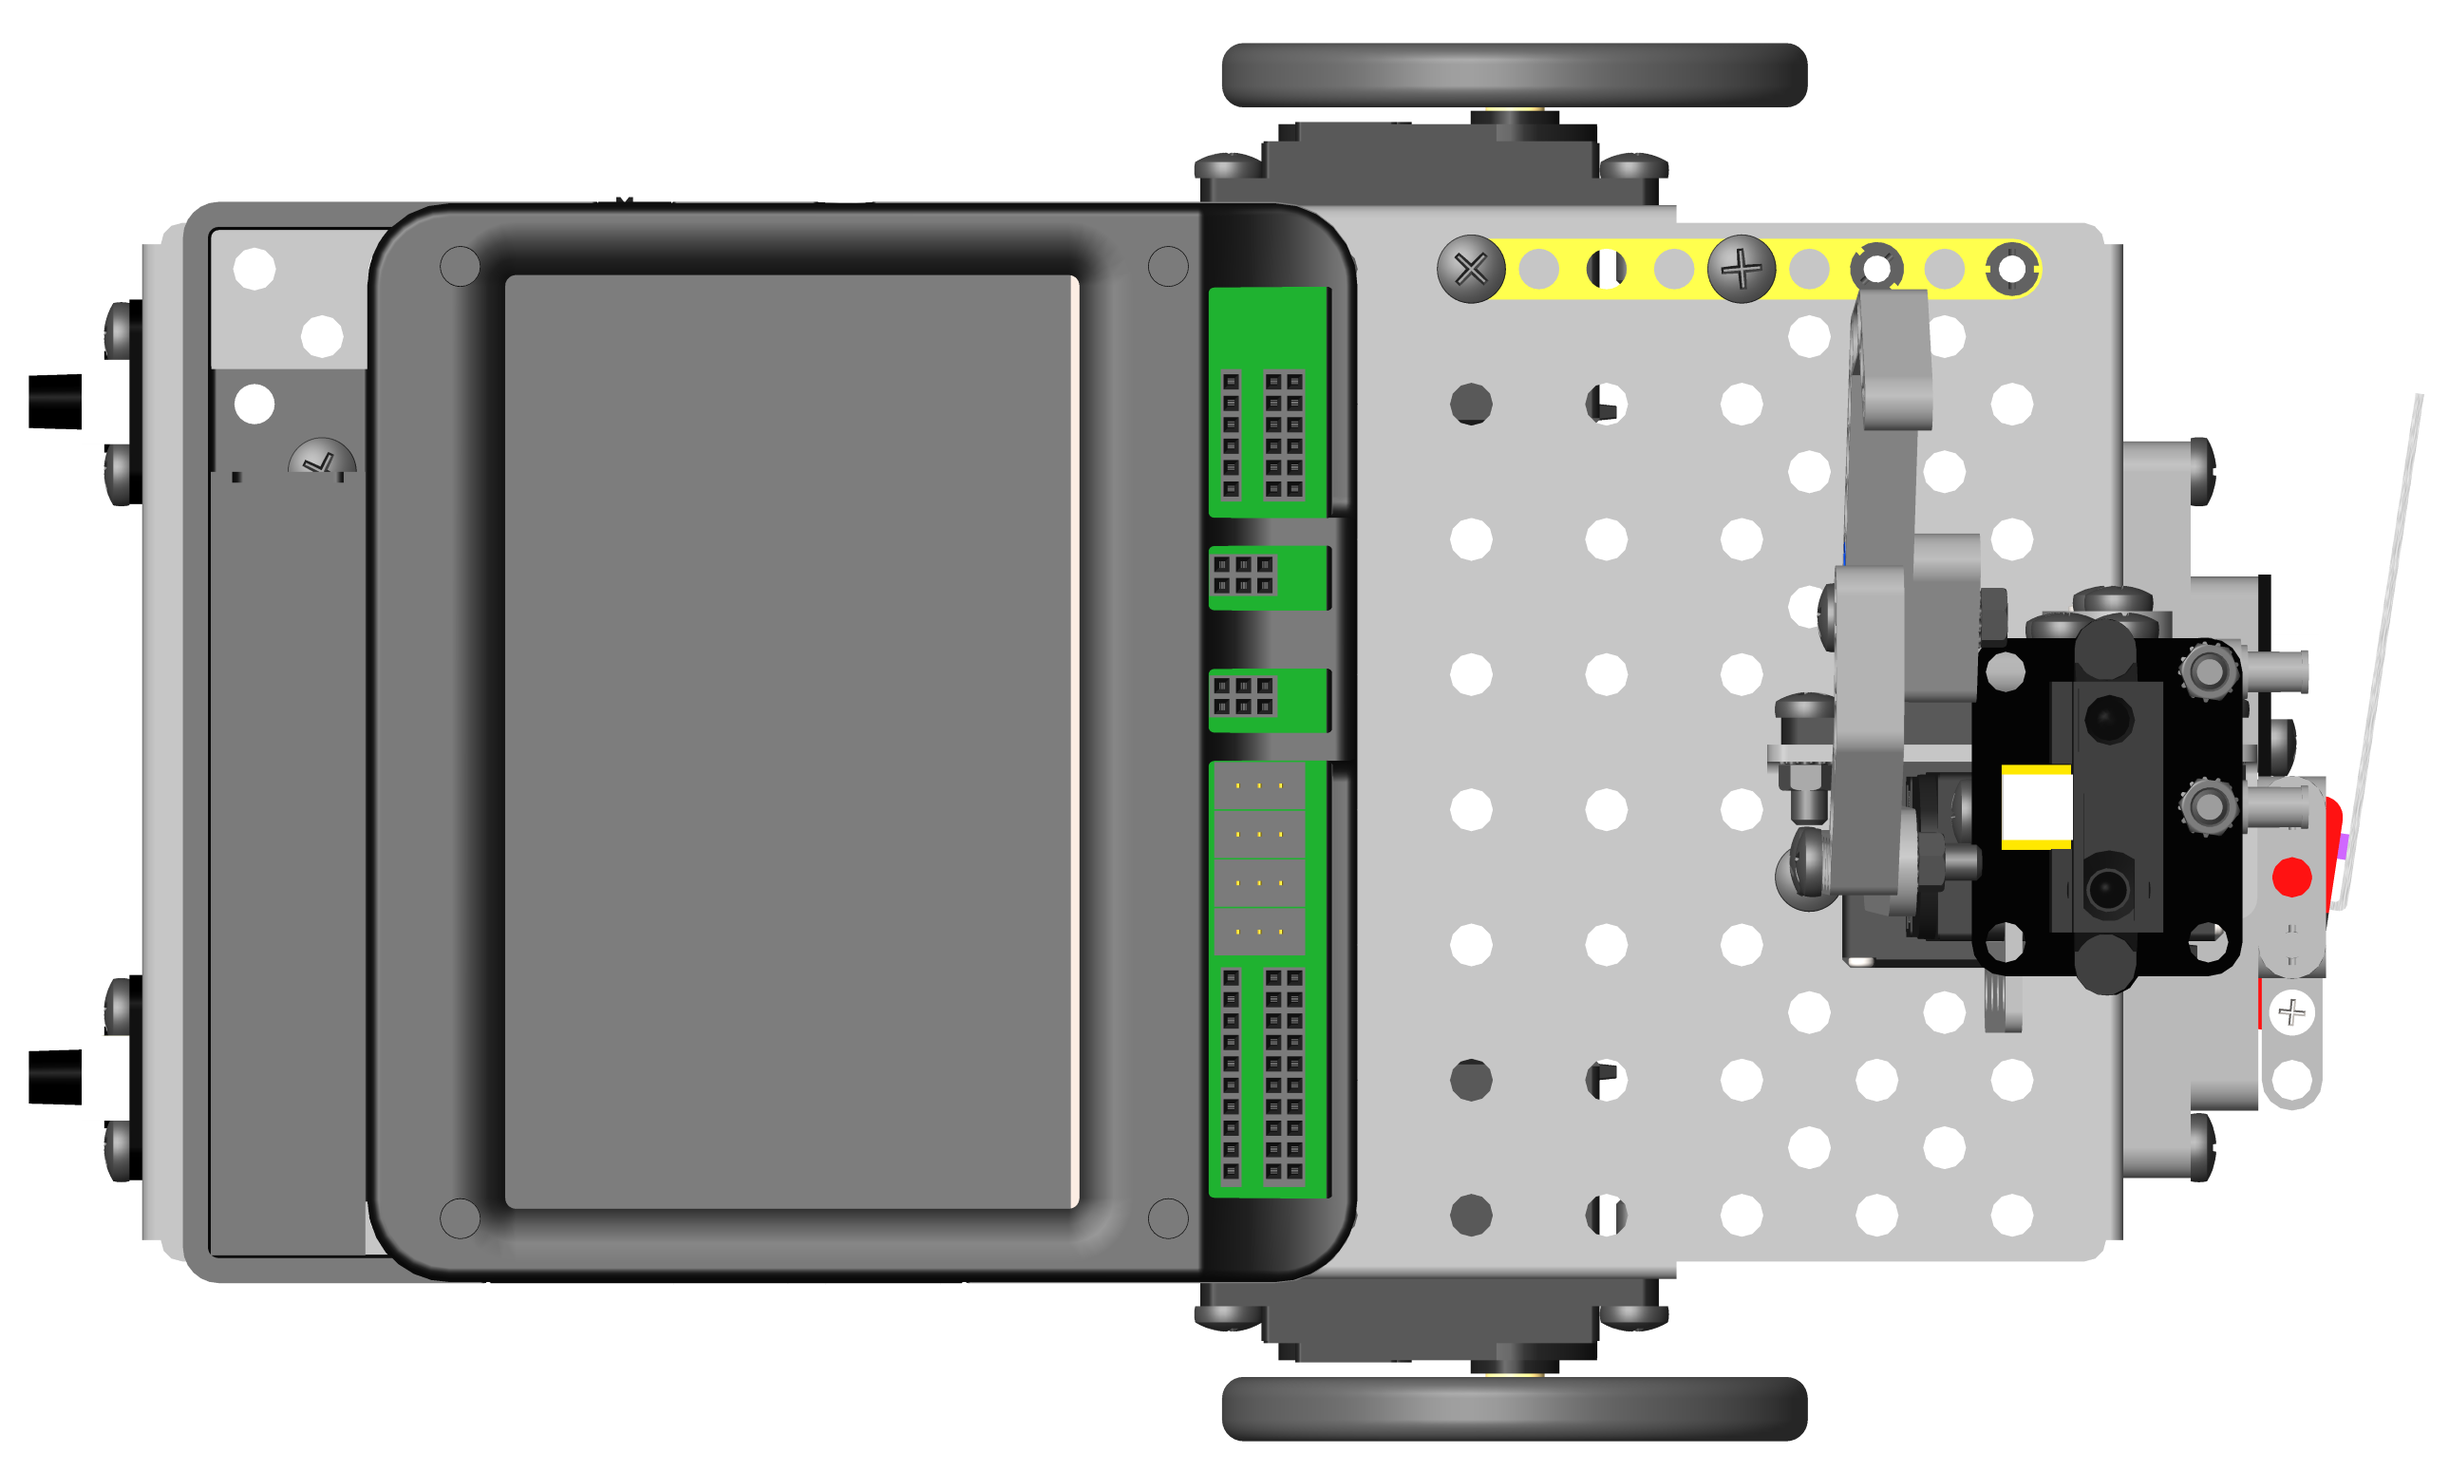
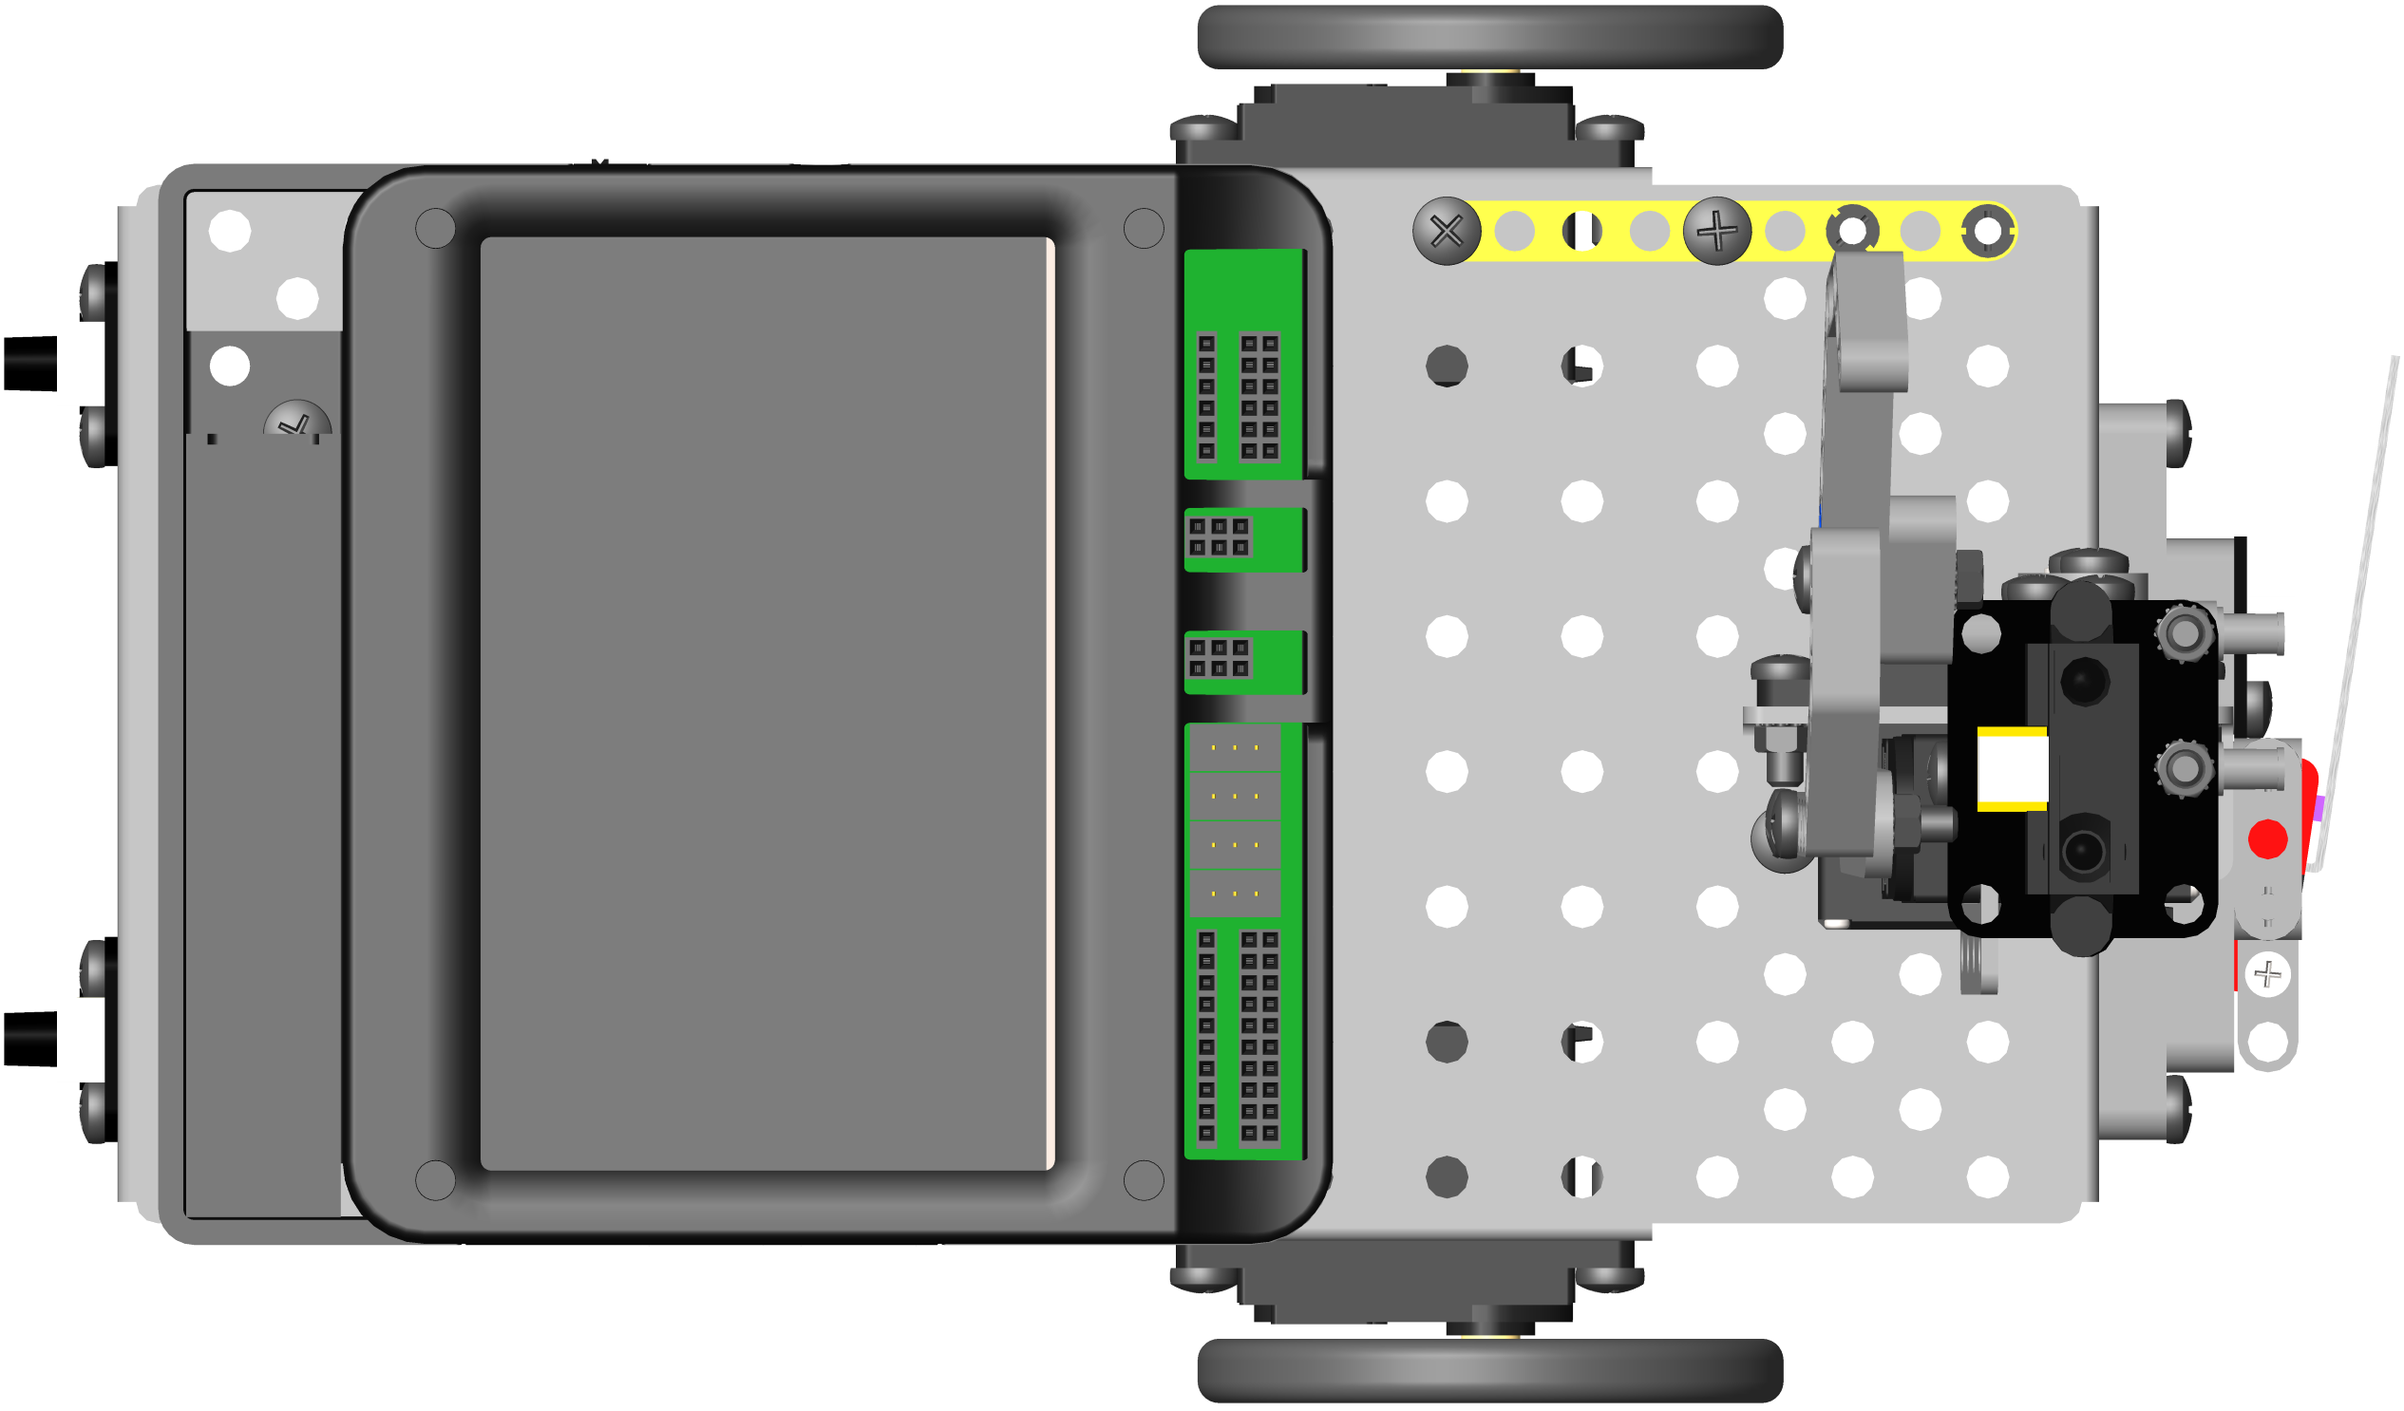
Robot movement fixes

diff --git a/src/WorkerInstance.ts b/src/WorkerInstance.ts
@@ -17,8 +17,8 @@ class WorkerInstance {
   private registers_ = new Array<number>(Registers.REG_ALL_COUNT).fill(0).fill(5,78,85).fill(220,79,80).fill(220,81,82).fill(220,83,84).fill(220,85,86);
   
   private time_ = Date.now() / 1000;
-  private wheel_radius_ = 28;
-  private wheelSep_ = 135;
+  private wheel_radius_ = 53.75;
+  private wheelSep_ = 128.1;
 
   private tick = ()=> {
     const nextState = { ...this.state_ };
@@ -33,7 +33,7 @@ class WorkerInstance {
     const total_dist = (this.wheel_radius_/2)*(nextState.motor3_speed + nextState.motor0_speed)/1500*time_change;
 
     nextState.x = nextState.x + (total_dist)*Math.cos(nextState.theta);
-    nextState.y = nextState.y - (total_dist)*Math.sin(nextState.theta);
+    nextState.y = nextState.y + (total_dist)*Math.sin(nextState.theta);
     nextState.theta = nextState.theta + (this.wheel_radius_/2)*(nextState.motor3_speed - nextState.motor0_speed)/1500/this.wheelSep_*time_change;
     
     nextState.motor0_position = nextState.motor0_position + nextState.motor0_speed*time_change;

diff --git a/src/Visualizer.tsx b/src/Visualizer.tsx
@@ -18,9 +18,9 @@ export class Visualizer extends React.Component<Props> {
       robot
       //register
     } = props;
-    const rotateUpdate = 'rotate(' + ((robot.theta)*180/Math.PI).toString() + ',140,72)';
+    const rotateUpdate = 'rotate(' + ((robot.theta)*180/Math.PI).toString() + ',' + (robot.x+142.88).toString() + ',' + (robot.y-67.5).toString() + ')';
     return (
-        <svg width="225" height="135" x={robot.x} y={robot.y} id="demobot" transform={rotateUpdate}>
+        <svg width="230.19" height="135" x={robot.x} y={robot.y} id="demobot" transform={rotateUpdate}>
             <image height="100%" href="static/Demobot-Claw-Up-Closed.png"/>
         </svg>
     )

diff --git a/src/App.tsx b/src/App.tsx
@@ -71,7 +71,7 @@ export class App extends React.Component<Props, State> {
             </section>
             <section className="theta">
               <h3>Theta: </h3>
-              <textarea rows={1} cols={4} draggable="false" readOnly  value={Math.round(robot.theta/Math.PI*180)}/>
+              <textarea rows={1} cols={4} draggable="false" readOnly  value={Math.round(-1*robot.theta/Math.PI*180)}/>
             </section>
           </section>
         </section>
